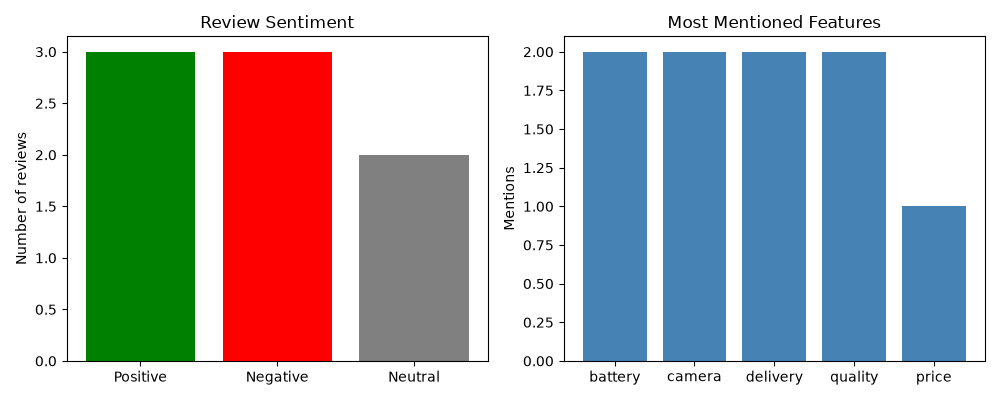
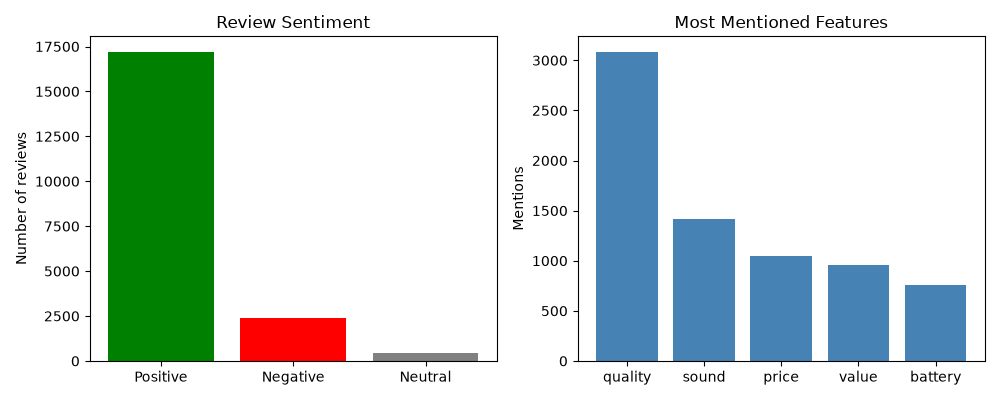
Add files via upload

diff --git a/analyzer.py b/analyzer.py
@@ -1,62 +1,75 @@
-import matplotlib.pyplot as plt
-
 import csv
+import re
 from collections import Counter
+import matplotlib.pyplot as plt
+from vaderSentiment.vaderSentiment import SentimentIntensityAnalyzer
 
-positive_words = ["great", "amazing", "love", "good", "excellent", "happy", "best", "fast"]
-negative_words = ["terrible", "broken", "bad", "high", "worst", "slow", "heats", "not worth"]
-feature_words = ["battery", "camera", "price", "screen", "delivery", "sound", "quality", "money"]
+FILE_NAME = "big_reviews.csv"
+MAX_ROWS = 20000
+
+feature_words = ["battery", "camera", "sound", "display", "screen", "delivery",
+                 "packaging", "price", "quality", "performance", "design",
+                 "service", "value"]
+
+vader = SentimentIntensityAnalyzer()
 
 
-def analyze(review):
-    text = review.lower()
-    score = 0
-    for word in positive_words:
-        if word in text:
-            score += 1
-    for word in negative_words:
-        if word in text:
-            score -= 1
+def get_words(text):
+    return set(re.findall(r"[a-z']+", text.lower()))
 
-    if score > 0:
+
+def analyze(text):
+    score = vader.polarity_scores(text)["compound"]
+    if score >= 0.05:
         return "Positive"
-    elif score < 0:
+    elif score <= -0.05:
         return "Negative"
     else:
         return "Neutral"
 
 
-def read_reviews(filename):
-    reviews = []
-    with open(filename, newline="", encoding="utf-8") as file:
+def read_reviews(filename, max_rows):
+    data = []
+    with open(filename, newline="", encoding="utf-8", errors="ignore") as file:
         reader = csv.DictReader(file)
         for row in reader:
-            reviews.append(row["review"])
-    return reviews
+            row = {key.strip().lower(): value for key, value in row.items()}
+            review = row.get("review") or ""
+            summary = row.get("summary") or ""
+            label = (row.get("sentiment") or "").strip().capitalize()
+            data.append((summary + ". " + review, label))
+            if len(data) >= max_rows:
+                break
+    return data
 
 
-reviews = read_reviews("reviews.csv")
+data = read_reviews(FILE_NAME, MAX_ROWS)
 
 counts = Counter()
+real_counts = Counter()
 feature_mentions = Counter()
 complaints = Counter()
+correct = 0
 
-for review in reviews:
-    result = analyze(review)
+for text, real_label in data:
+    result = analyze(text)
     counts[result] += 1
-    text = review.lower()
+    real_counts[real_label] += 1
+    if result == real_label:
+        correct += 1
+    words = get_words(text)
     for feature in feature_words:
-        if feature in text:
+        if feature in words:
             feature_mentions[feature] += 1
             if result == "Negative":
                 complaints[feature] += 1
-    print(f"{result}: {review}")
 
-print()
-print("Sentiment summary:", dict(counts))
-print("Most mentioned features:", feature_mentions.most_common(3))
-print("Most common complaints:", complaints.most_common(3))
-
+print("Reviews analyzed:", len(data))
+print("Our sentiment summary:", dict(counts))
+print("Dataset's real labels:", dict(real_counts))
+print("Most mentioned features:", feature_mentions.most_common(5))
+print("Most common complaints:", complaints.most_common(5))
+print(f"Matches the dataset's labels: {correct / len(data) * 100:.1f}%")
 
 # ---- Dashboard ----
 labels = ["Positive", "Negative", "Neutral"]
